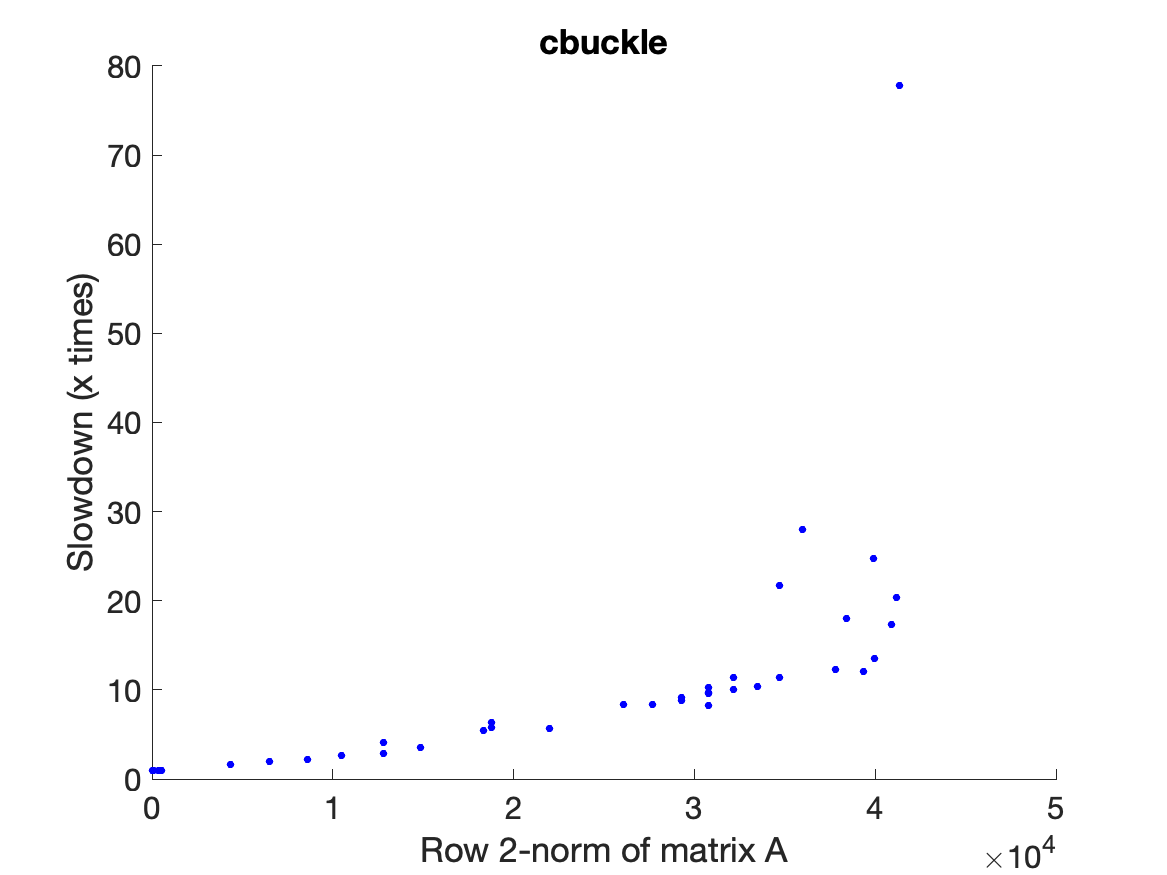
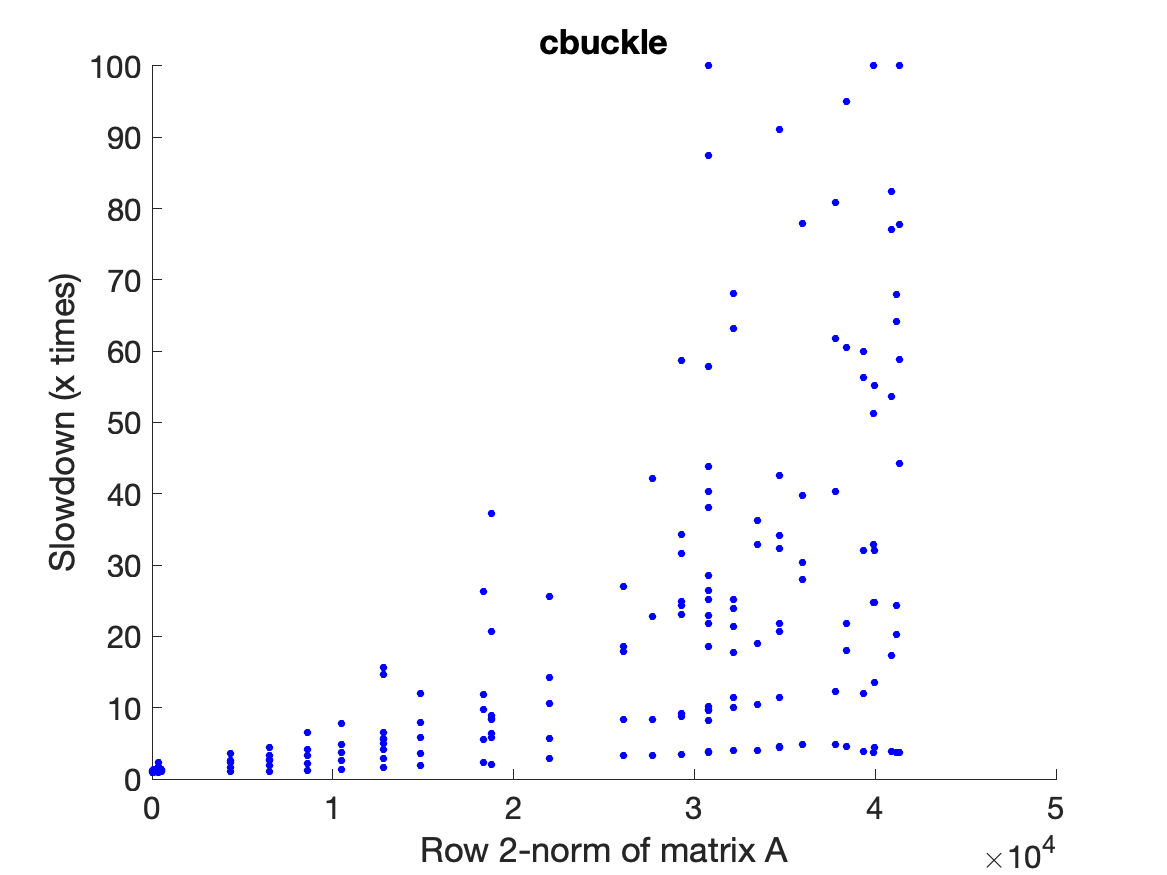
Updated colors for scatter plot

diff --git a/Step6_correlate.m b/Step6_correlate.m
@@ -31,8 +31,94 @@ for m = 1:num_matrices
     new_error = ['./matrices/', matrixname, '_newerror.mat'];
     load(new_error, 'injections');
 
+    % for i = injections
+    %     bitflip_iter = i;
+    % %% load experimental data
+    %     result_filename = ['./data/', matrixname, '/Step3_', matrixname, '_iter=', num2str(bitflip_iter), '.dat'];
+    %     result = dlmread(result_filename);
+    %     A_row_2norms = result(:, 6);
+    %     noerror_converges = result(:, 7);
+    %     converges = result(:, 8);
+    %     converge_ratios = converges./noerror_converges;
+    % 
+    %     %% slowdown figure
+    %     figure;
+    %     scatter(A_row_2norms, converge_ratios, mrk_size, mrk, 'filled', color);
+    %     set(gca,'xscale');
+    %     xlabel('Row 2-norm of matrix A');
+    %     ylabel('Slowdown (x times)');
+    %     title(matrixname, 'interpreter', 'none');
+    %     set(gca,'FontSize',15);
+    %     hold off;
+    %     figure_filename = ['./figures/', matrixname, '/', comments, '_', matrixname, '_bitflip_iter=', num2str(bitflip_iter), '_row2norm'];
+    %     print(figure_filename, '-dpng');
+    % 
+    %     %% load gradients
+    %     % rel_grad_filename = ['./matrices/', matrixname, '_iter=', num2str(bitflip_iter), '_gradient_relative.mat'];
+    %     % abs_grad_filename = ['./matrices/', matrixname, '_iter=', num2str(bitflip_iter), '_gradient_absolute.mat'];
+    % 
+    %     r = result(:, 11);
+    %     figure;
+    %     scatter(r, converge_ratios, mrk_size, mrk, 'filled', color);
+    %     set(gca,'xscale');
+    %     xlabel('relative gradient');
+    %     ylabel('Slowdown (x times)');
+    %     title(matrixname, 'interpreter', 'none');
+    %     set(gca,'FontSize',15);
+    %     hold off;
+    %     figure_filename = ['./figures/', matrixname, '/', comments, '_', matrixname, '_bitflip_iter=', num2str(bitflip_iter), '_gradient_relative'];
+    %     print(figure_filename, '-dpng');
+    % 
+    % 
+    %     g = result(:,10);
+    %     figure;
+    %     scatter(g, converge_ratios, mrk_size, mrk, 'filled', color);
+    %     set(gca,'xscale');
+    %     xlabel('absolute gradient');
+    %     ylabel('Slowdown (x times)');
+    %     title(matrixname, 'interpreter', 'none');
+    %     set(gca,'FontSize',15);
+    %     hold off;
+    %     figure_filename = ['./figures/', matrixname, '/',comments, '_', matrixname, '_bitflip_iter=', num2str(bitflip_iter), 'gradient_absolute'];
+    %     print(figure_filename, '-dpng');
+    % 
+    %     figure;
+    %     x = result(:,13);
+    %     scatter(x, converge_ratios, mrk_size, mrk, 'filled', color);
+    %     set(gca, 'xscale');
+    %     xlabel('x-values');
+    %     ylabel('Slowdown');
+    %     title(matrixname, 'interpreter', 'none');
+    %     set(gca, 'FontSize', 15);
+    % 
+    % 
+    %     hold off;
+    % 
+    %     figure_filename = ['./figures/', matrixname, '/', comments, '_', matrixname, '_bitflip_iter=', num2str(bitflip_iter), '_x'];
+    %     print(figure_filename, '-dpng');
+    % 
+    %     figure;
+    %     sg = result(:,12);
+    %     scatter(sg, converge_ratios, mrk_size, mrk, 'filled', color);
+    %     set(gca, 'xscale');
+    %     xlabel('gradient (not absolute)');
+    %     ylabel('Slowdown');
+    %     title(matrixname, 'interpreter', 'none');
+    %     set(gca, 'FontSize', 15);
+    % 
+    % 
+    %     hold off;
+    % 
+    %     figure_filename = ['./figures/', matrixname, '/',comments, '_', matrixname, '_bitflip_iter=', num2str(bitflip_iter), '_grad(no_abs)'];
+    %     print(figure_filename, '-dpng');
+    % 
+    %     hold off; 
+    % end 
+    % 
+    % close all;
+
     for i = injections
-        bitflip_iter = 1;
+        bitflip_iter = i;
     %% load experimental data
         result_filename = ['./data/', matrixname, '/Step3_', matrixname, '_iter=', num2str(bitflip_iter), '.dat'];
         result = dlmread(result_filename);
@@ -40,83 +126,25 @@ for m = 1:num_matrices
         noerror_converges = result(:, 7);
         converges = result(:, 8);
         converge_ratios = converges./noerror_converges;
-       
-        %% slowdown figure
-        figure;
-        scatter(A_row_2norms, converge_ratios, mrk_size, mrk, 'filled', color);
+
+        c = {'r', 'g', 'b', 'y', 'm'};
+
+        colororder(['r'; 'g'; 'b'; 'y'; 'm']);
+
+        % figure;
+        hold on;
+        scatter(A_row_2norms, converge_ratios, mrk_size, mrk, 'filled', 'DisplayName', num2str(i));
         set(gca,'xscale');
         xlabel('Row 2-norm of matrix A');
         ylabel('Slowdown (x times)');
         title(matrixname, 'interpreter', 'none');
         set(gca,'FontSize',15);
-        hold off;
-        figure_filename = ['./figures/', matrixname, '/', comments, '_', matrixname, '_bitflip_iter=', num2str(bitflip_iter), '_row2norm'];
+        legend();
+        figure_filename = ['./figures/', matrixname, '/', comments, '_', matrixname, '_row2norm'];
         print(figure_filename, '-dpng');
-    
-        %% load gradients
-        % rel_grad_filename = ['./matrices/', matrixname, '_iter=', num2str(bitflip_iter), '_gradient_relative.mat'];
-        % abs_grad_filename = ['./matrices/', matrixname, '_iter=', num2str(bitflip_iter), '_gradient_absolute.mat'];
-    
-        r = result(:, 11);
-        figure;
-        scatter(r, converge_ratios, mrk_size, mrk, 'filled', color);
-        set(gca,'xscale');
-        xlabel('relative gradient');
-        ylabel('Slowdown (x times)');
-        title(matrixname, 'interpreter', 'none');
-        set(gca,'FontSize',15);
-        hold off;
-        figure_filename = ['./figures/', matrixname, '/', comments, '_', matrixname, '_bitflip_iter=', num2str(bitflip_iter), '_gradient_relative'];
-        print(figure_filename, '-dpng');
-    
-    
-        g = result(:,10);
-        figure;
-        scatter(g, converge_ratios, mrk_size, mrk, 'filled', color);
-        set(gca,'xscale');
-        xlabel('absolute gradient');
-        ylabel('Slowdown (x times)');
-        title(matrixname, 'interpreter', 'none');
-        set(gca,'FontSize',15);
-        hold off;
-        figure_filename = ['./figures/', matrixname, '/',comments, '_', matrixname, '_bitflip_iter=', num2str(bitflip_iter), 'gradient_absolute'];
-        print(figure_filename, '-dpng');
-    
-        figure;
-        x = result(:,13);
-        scatter(x, converge_ratios, mrk_size, mrk, 'filled', color);
-        set(gca, 'xscale');
-        xlabel('x-values');
-        ylabel('Slowdown');
-        title(matrixname, 'interpreter', 'none');
-        set(gca, 'FontSize', 15);
-       
-    
-        hold off;
-    
-        figure_filename = ['./figures/', matrixname, '/', comments, '_', matrixname, '_bitflip_iter=', num2str(bitflip_iter), '_x'];
-        print(figure_filename, '-dpng');
-    
-        figure;
-        sg = result(:,12);
-        scatter(sg, converge_ratios, mrk_size, mrk, 'filled', color);
-        set(gca, 'xscale');
-        xlabel('gradient (not absolute)');
-        ylabel('Slowdown');
-        title(matrixname, 'interpreter', 'none');
-        set(gca, 'FontSize', 15);
-       
-    
-        hold off;
-    
-        figure_filename = ['./figures/', matrixname, '/',comments, '_', matrixname, '_bitflip_iter=', num2str(bitflip_iter), '_grad(no_abs)'];
-        print(figure_filename, '-dpng');
-
-        hold off; 
     end 
-    
-    close all;
-
+    hold off; 
+    close all; 
 end 
     
 end

diff --git a/Step6_impact.m b/Step6_impact.m
@@ -116,6 +116,9 @@ for m = 1:num_matrices
         converges = result(:, 8);
         converge_ratios = converges./noerror_converges;
 
+
+        colororder(['r'; 'g'; 'b'; 'y'; 'm']);
+        
         % plot unsorted
         hold on;
         plot(converge_ratios, 'DisplayName', num2str(i));
